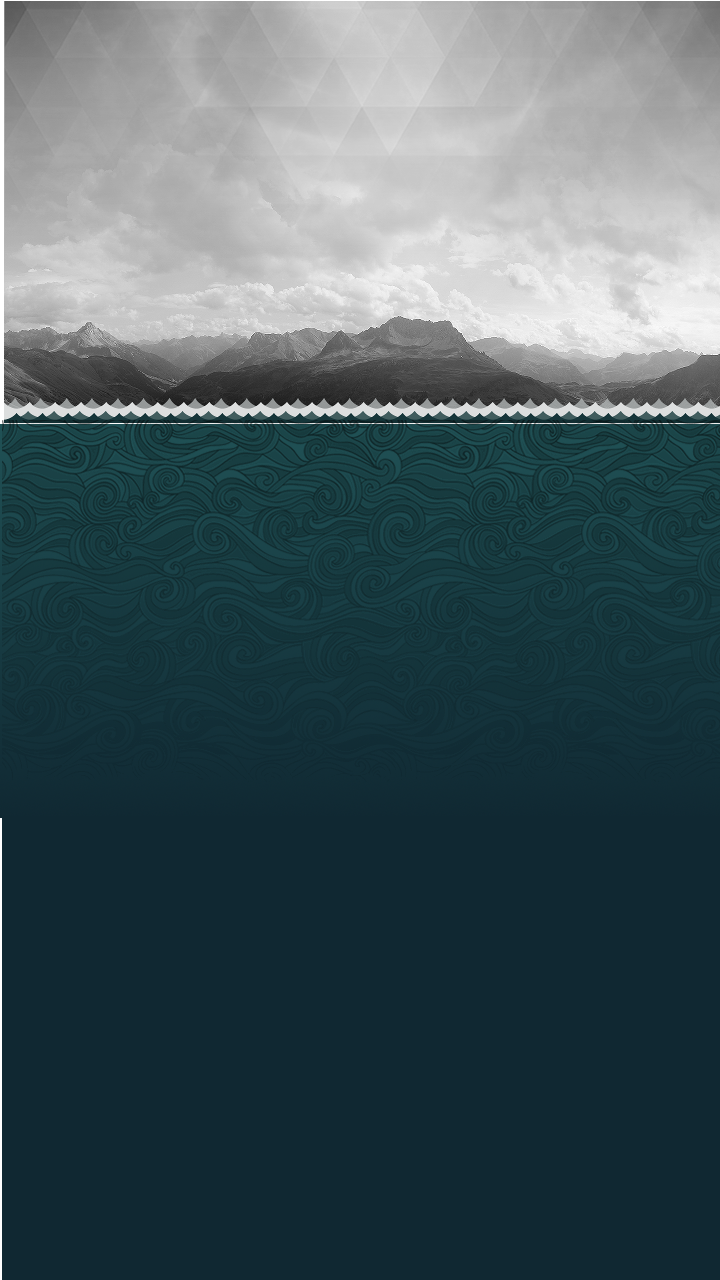
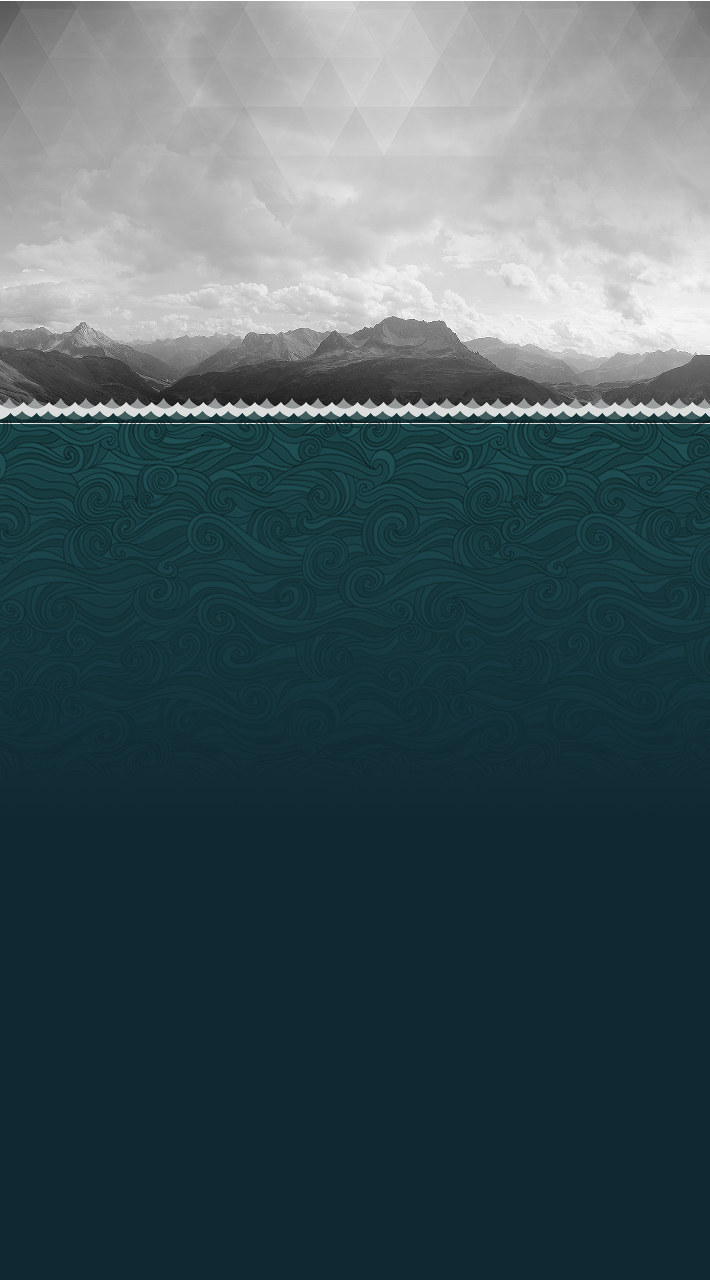
Updated Stories and Profile pages

diff --git a/www/js/controllers.js b/www/js/controllers.js
@@ -53,7 +53,7 @@ angular.module('BardApp.controllers', [])
 
 	$scope.placard = $scope.characters[0].name;
 	$scope.snippet = $scope.characters[0].snippet;
-	$scope.profile = $scope.characters[0];
+	$scope.morelink = $scope.characters[0];
   
 	$scope.slideChanged = function(index) {
 		$scope.placard = $scope.characters[index].name;
@@ -65,7 +65,7 @@ angular.module('BardApp.controllers', [])
 
 
 .controller('ProfileController', function($scope, $ionicModal, $http) {
-	$ionicModal.fromTemplateUrl('templates/profile-page.html', {
+	$ionicModal.fromTemplateUrl('templates/profile.html', {
 		scope: $scope,
 		animation: 'slide-in-right'
 	}).then(function(modal) {
@@ -152,18 +152,17 @@ angular.module('BardApp.controllers', [])
 
 	$ionicPlatform.ready(function() {
 
-		$scope.openPlayer = function(story) {
+		$scope.openPlayer = function(cycle, story) {
+			$scope.tale = story;
 			$scope.loaded = true;
 			$scope.isPlaying = false;
 
 			$scope.title = story.title;
-			$scope.cycle = "Fenian";
+			$scope.cycle = cycle;
 
-			$http.get('content/' + story.link).success(function(response){ 
+			$http.get('content/stories/' + $scope.tale.link).success(function(response){ 
 				$scope.paras = response;
-				console.log('content/' + story.link);
 			}).error(function(data) {
-				console.log('content/' + story.link);
 				console.log("Error in PlayerController with http.get");
 			});
 

diff --git a/www/css/style.css b/www/css/style.css
@@ -344,7 +344,8 @@ h1, h2, h3 {
 
 /* Story Player Pages */
 .player-page {
-	background: url('../img/bard-app-bg.png');
+/*	background: url('../img/bard-app-bg.png');*/
+	background: url('../img/bard-bg-half.jpg');
 	background-repeat: no-repeat;
 	-webkit-background-size: cover;
 	-moz-background-size: cover;
@@ -372,6 +373,10 @@ h1, h2, h3 {
 	color: #506666;
 }
 
+.player-mainText {
+	font-family: "PTSerif";
+	padding: 10px;
+}
 
 /* Story Player Pages: Audio Controls */
 .audio-controls {

diff --git a/www/templates/stories.html b/www/templates/stories.html
@@ -17,7 +17,7 @@
 		  <ion-item class="item-accordion" ng-repeat="story in myth.stories" ng-show="isGroupShown(myth)">
 			<div class="row" ng-controller="PlayerController">
 				<div class="col col-5"><img src="img/list-item-icon.png" alt="image" height="35" /></div>
-				<div class="col col-90" ng-click="openPlayer(story)">{{story.title}}</div>
+				<div class="col col-90" ng-click="openPlayer(myth.cycle, story)">{{story.title}}</div>
 			</div>
 		  </ion-item>
 		</div>
